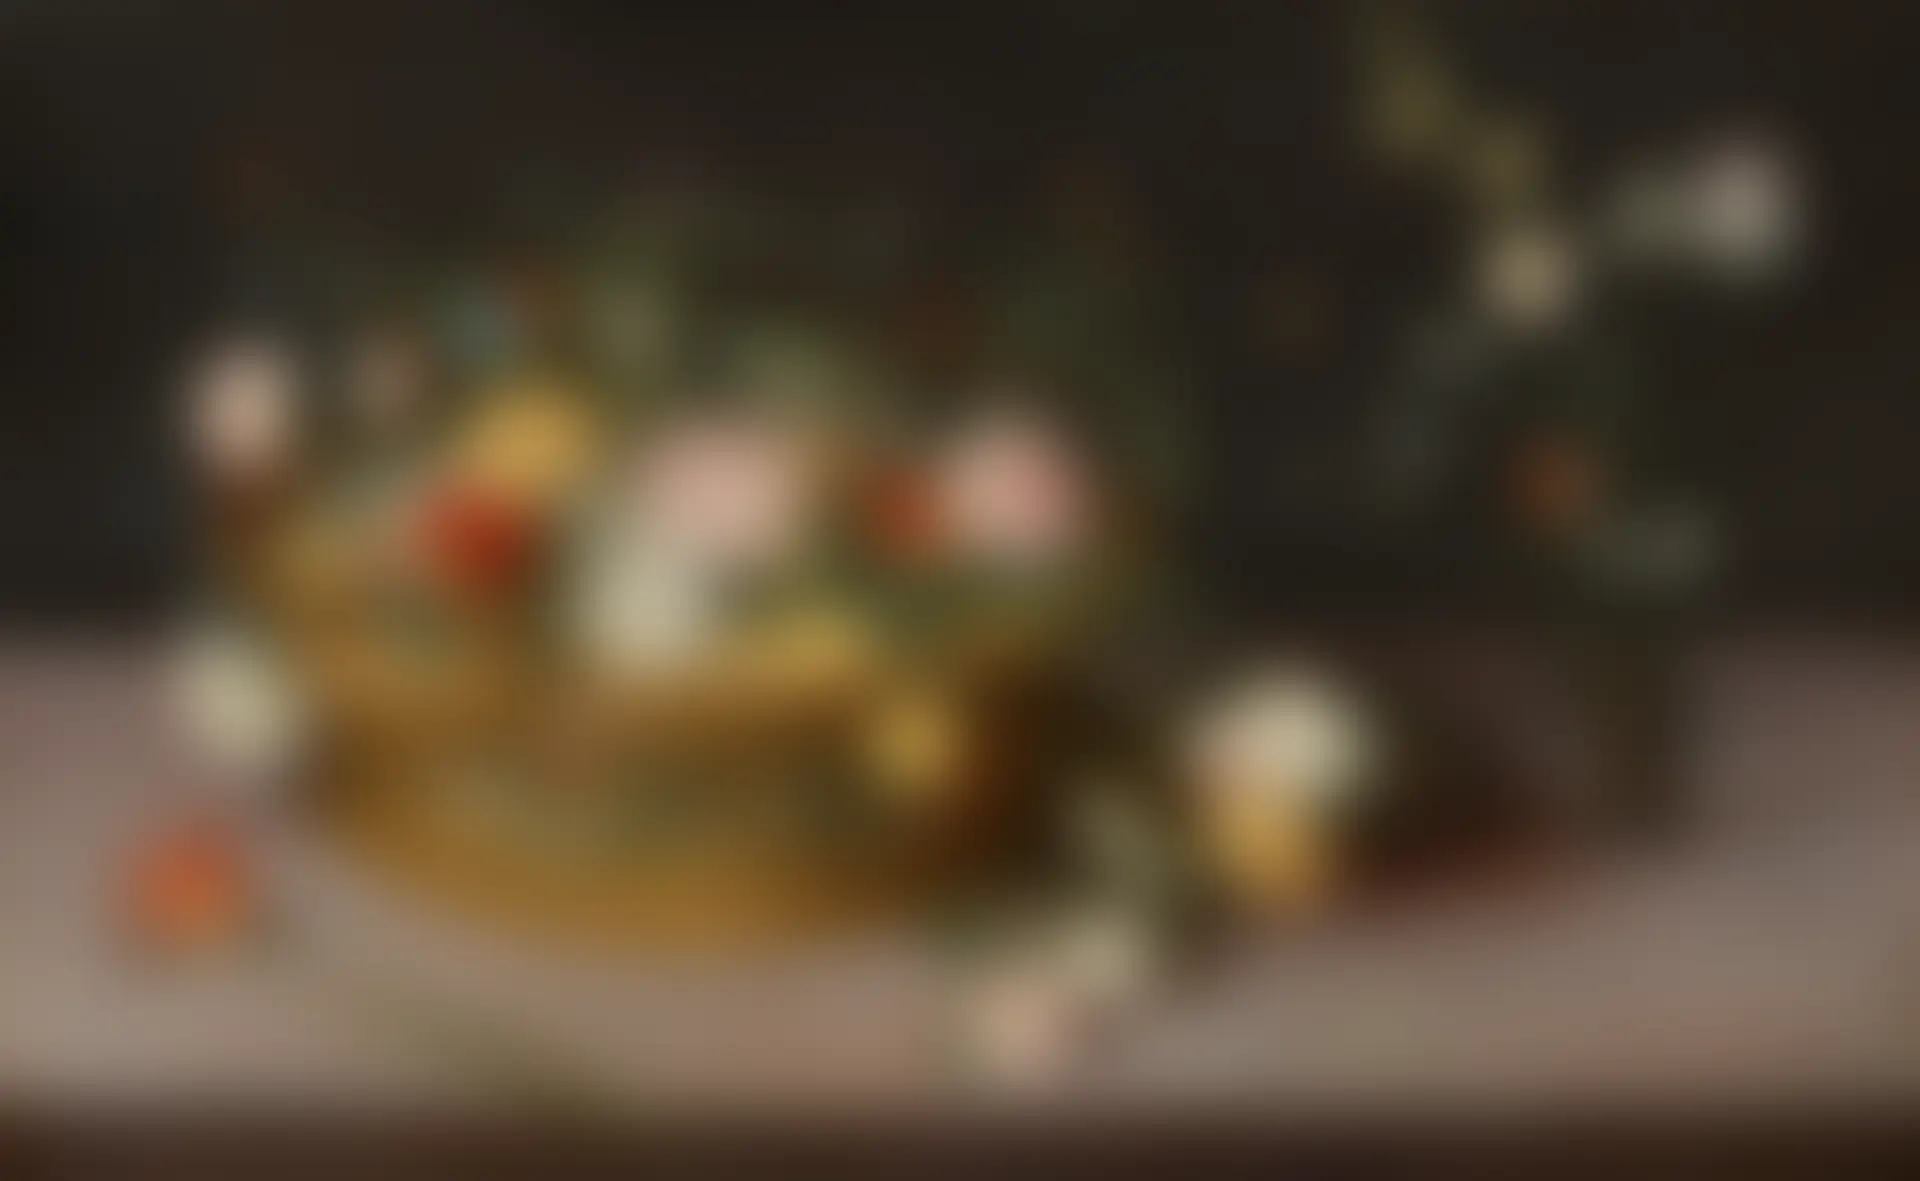
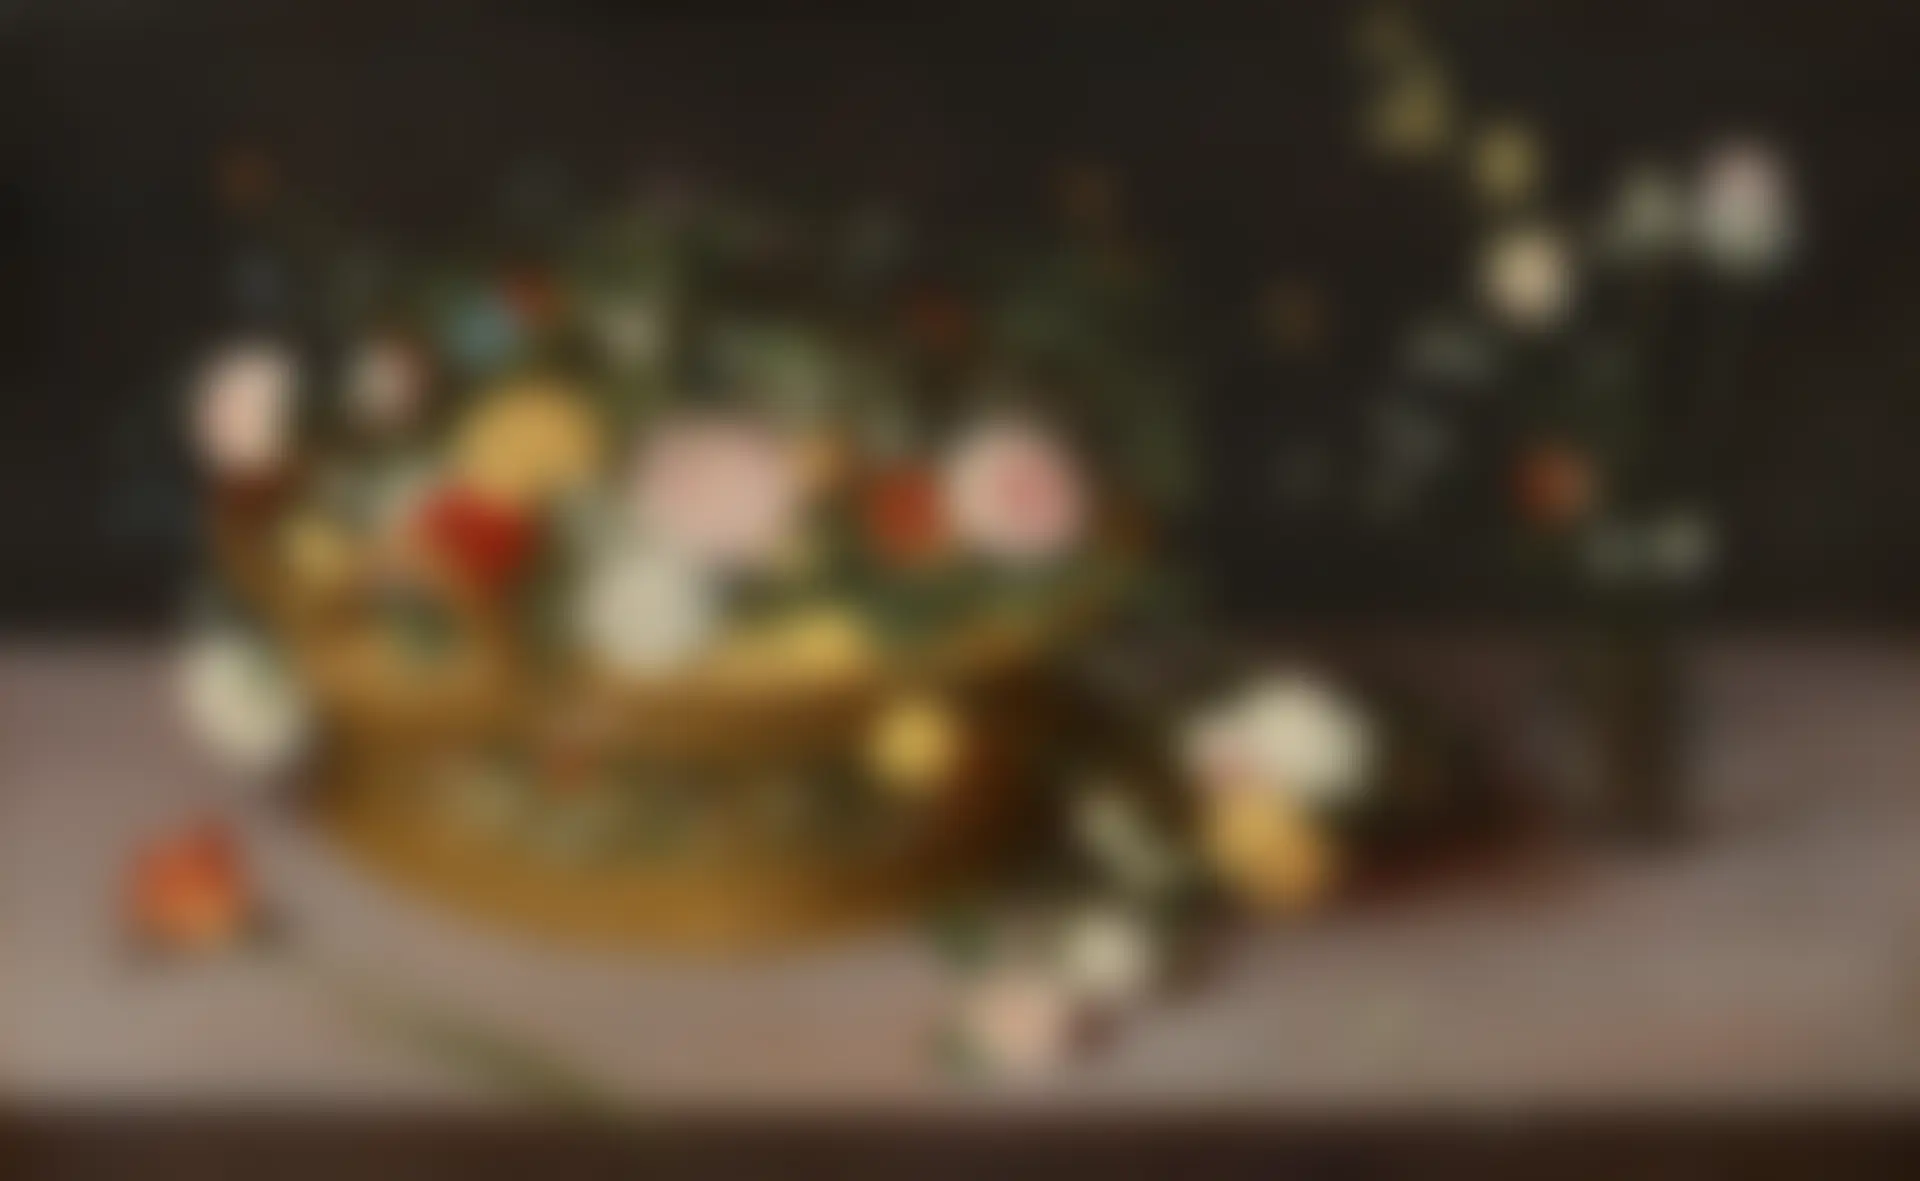
feat: add fullscreen wallpaper peek and refresh intro copy

diff --git a/src/App.svelte b/src/App.svelte
@@ -1,5 +1,6 @@
 <script>
-  import { onMount } from 'svelte'
+  import { onMount, tick } from 'svelte'
+  import { X } from '@lucide/svelte'
   import { Bird, Mail } from '@lucide/svelte'
   import GithubMark from './GithubMark.svelte'
   import TypedTitle from './TypedTitle.svelte'
@@ -73,6 +74,29 @@
     document.documentElement.dataset.theme = theme
   }
 
+  let peeking = $state(false)
+  let peekExitButton = $state(null)
+
+  function enterPeek() {
+    peeking = true
+    document.documentElement.dataset.bg = 'peek'
+  }
+
+  async function exitPeek() {
+    peeking = false
+    delete document.documentElement.dataset.bg
+    await tick()
+    document.getElementById('peek-button')?.focus()
+  }
+
+  function handleKeydown(event) {
+    if (peeking && event.key === 'Escape') exitPeek()
+  }
+
+  $effect(() => {
+    if (peeking) peekExitButton?.focus()
+  })
+
   onMount(() => {
     const root = document.documentElement
     const media = window.matchMedia('(prefers-color-scheme: dark)')
@@ -90,8 +114,10 @@
   })
 </script>
 
+<svelte:window onkeydown={handleKeydown} />
+
 <main>
-  <UtilityBar {theme} onToggleTheme={toggleTheme} />
+  <UtilityBar {theme} onToggleTheme={toggleTheme} onEnterPeek={enterPeek} />
 
   {#each sectionOrder as sectionId}
     {#if sectionId === 'home'}
@@ -102,7 +128,8 @@
           <TypedTitle {pseudonym} />
           <p class="tagline">
             I like making things for my own use.<br />
-            You can also call me <strong>Hanif</strong>. Either name works.
+            You can also call me <strong>Hanif</strong>, so use whichever one you like.
+            <span class="tagline-sub">And, as you can tell, I like ricing too.</span>
           </p>
         </div>
       </section>
@@ -161,3 +188,27 @@
   <p>Last changed on {lastBuilt}</p>
   <p>Built with <a href="https://svelte.dev" target="_blank" rel="noopener noreferrer">Svelte</a> · <a href="https://github.com/athaurian/athaurian" target="_blank" rel="noopener noreferrer">View the source</a> on GitHub</p>
 </footer>
+
+{#if peeking}
+  <button type="button" class="peek-exit" bind:this={peekExitButton} onclick={exitPeek} aria-label="Back to site">
+    <span class="icon-button peek-close" aria-hidden="true"><X size={17} /></span>
+  </button>
+{/if}
+
+<style>
+  .peek-exit {
+    position: fixed;
+    inset: 0;
+    z-index: 2;
+    padding: 0;
+    border: 0;
+    background: transparent;
+    cursor: zoom-out;
+  }
+
+  .peek-close {
+    position: absolute;
+    top: var(--space-5);
+    right: var(--space-5);
+  }
+</style>

diff --git a/src/app.css b/src/app.css
@@ -5,6 +5,7 @@
   --font-weight-bold: 700;
   --font-size-body: 1rem;
   --font-size-small: 0.8125rem;
+  --font-size-caption: 0.625rem;
   --font-size-heading: 1.125rem;
   --font-size-name: clamp(1.75rem, 5vw, 2.5rem);
   --line-height: 1.65;
@@ -31,7 +32,7 @@
   --color-text-dim: #6b6b6b;
   --color-divider: #d0d0d0;
   --bg-overlay: rgba(250, 250, 250, 0.55);
-  --bg-blur: 24px;
+  --bg-blur: 16px;
 }
 [data-theme='dark'] {
   --color-bg: #121212;
@@ -39,7 +40,7 @@
   --color-text-secondary: #b3b3b3;
   --color-text-dim: #8a8a8a;
   --color-divider: #3a3a3a;
-  --bg-overlay: rgba(18, 18, 18, 0.88);
+  --bg-overlay: rgba(18, 18, 18, 0.8);
 }
 
 * {
@@ -114,11 +115,31 @@ body::after {
    so text stays readable over the photo. */
 @supports not ((backdrop-filter: blur(1px)) or (-webkit-backdrop-filter: blur(1px))) {
   :root {
-    --bg-overlay: rgba(250, 250, 250, 0.85);
+    --bg-overlay: rgba(250, 250, 250, 0.78);
   }
   [data-theme='dark'] {
-    --bg-overlay: rgba(18, 18, 18, 0.94);
+    --bg-overlay: rgba(18, 18, 18, 0.9);
   }
+}
+
+/* Peeking hides all content (`main` and `footer`) and the tint, and swaps
+   in the sharp photos so the wallpaper shows in full. Exit from the
+   full-screen button or the Escape key. */
+[data-bg='peek'] main,
+[data-bg='peek'] footer {
+  visibility: hidden;
+}
+
+[data-bg='peek'] body::after {
+  display: none;
+}
+
+html[data-bg='peek']::before {
+  background-image: url('/background-girl-lotus-sketch-sharp.webp');
+}
+
+[data-bg='peek'] body::before {
+  background-image: url('/background-flower-basket-sharp.webp');
 }
 
 button,
@@ -165,7 +186,7 @@ footer a:hover {
 
 .utility {
   display: flex;
-  justify-content: flex-end;
+  justify-content: space-between;
   min-height: var(--space-6);
   margin-bottom: var(--space-5);
 }
@@ -240,6 +261,13 @@ h1 {
   margin: 0;
   color: var(--color-text-secondary);
   font-size: var(--font-size-small);
+}
+
+.tagline-sub {
+  display: block;
+  margin-top: var(--space-1);
+  color: var(--color-text-dim);
+  font-size: var(--font-size-caption);
 }
 
 h2 {

diff --git a/src/UtilityBar.svelte b/src/UtilityBar.svelte
@@ -1,10 +1,20 @@
 <script>
-  import { Moon, Sun } from '@lucide/svelte'
+  import { Eye, Moon, Sun } from '@lucide/svelte'
 
-  let { theme, onToggleTheme } = $props()
+  let { theme, onToggleTheme, onEnterPeek } = $props()
 </script>
 
 <div class="utility">
+  <button
+    class="icon-button"
+    type="button"
+    id="peek-button"
+    onclick={onEnterPeek}
+    aria-label="View the wallpaper in full"
+    title="View the wallpaper in full"
+  >
+    <Eye size={17} />
+  </button>
   <button
     class="icon-button"
     type="button"
@@ -24,7 +34,7 @@
 <style>
   .utility {
     display: flex;
-    justify-content: flex-end;
+    justify-content: space-between;
     min-height: var(--space-6);
     margin-bottom: var(--space-5);
   }
